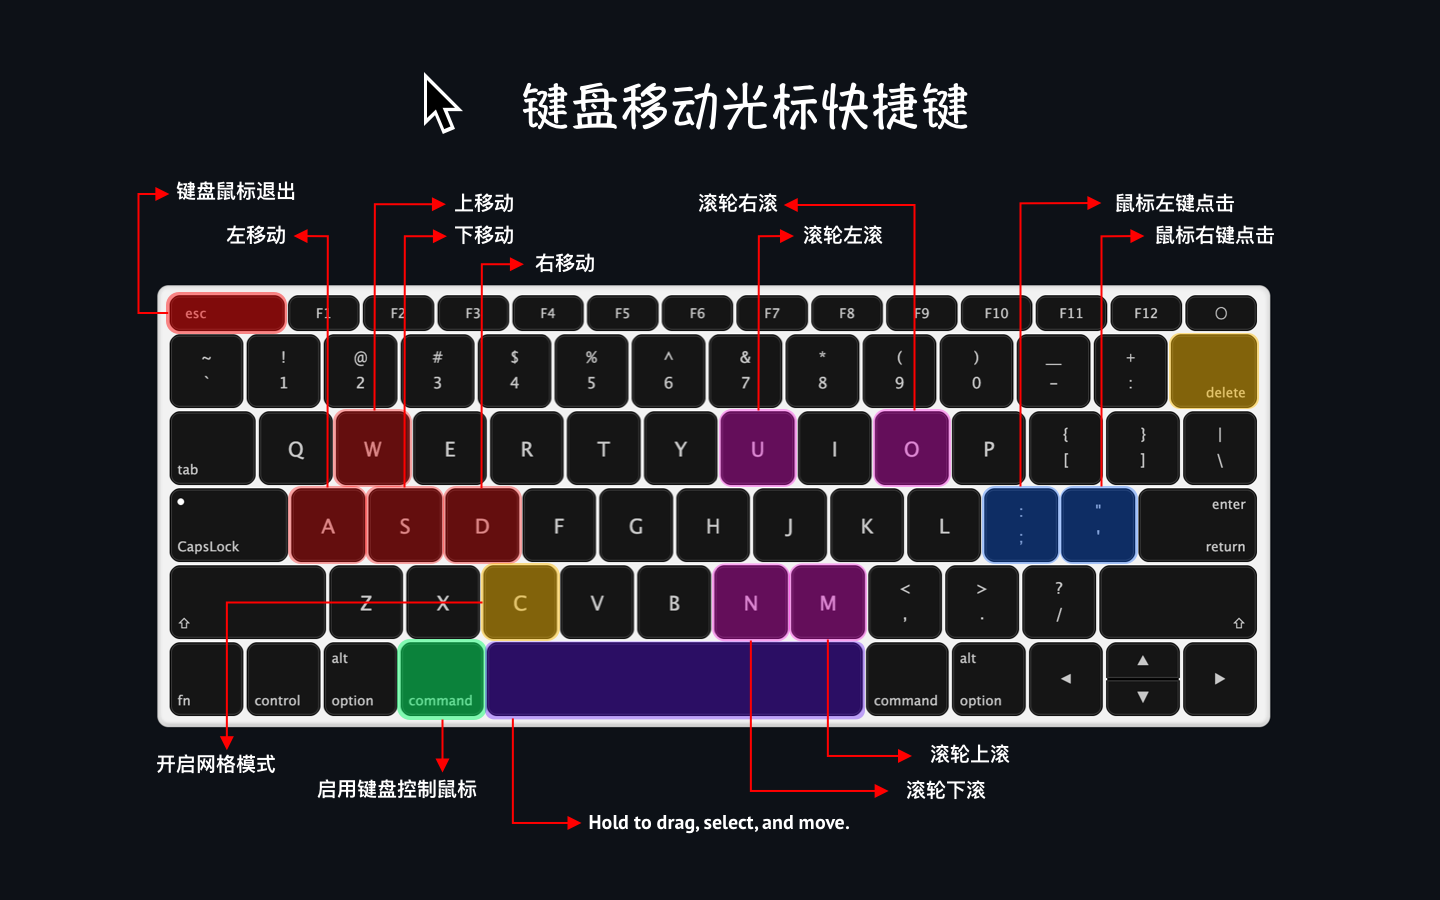
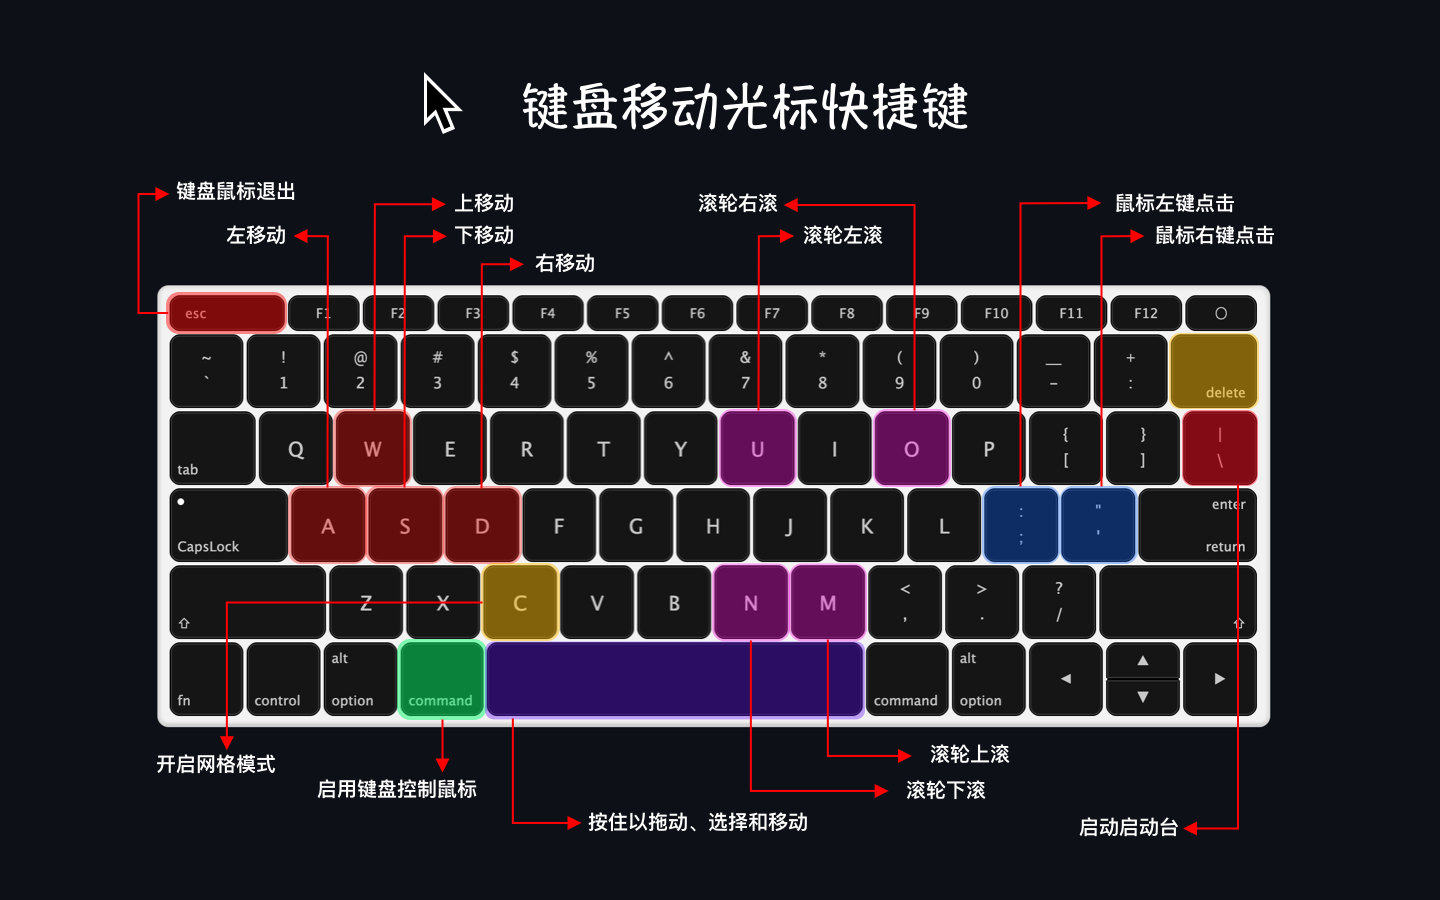
released v3.0.0

Changed region(s): [[0.8125, 0.4356, 0.875, 0.56], [0.4062, 0.9022, 0.5938, 0.9333], [0.75, 0.9022, 0.8438, 0.9333]]

diff --git a/README.md b/README.md
@@ -30,10 +30,16 @@ No need to touch the mouse — everything at your fingertips!
 Quickly move, click, and drag the mouse cursor using just your keyboard. Boost your efficiency and stay focused.
 
 ![Mousio 1](./assets/mousio3.gif)
+
 ![Mousio 1](./assets/mousio4.gif)
+
+![Mousio 1](./assets/screenshots-4.png)
+
+![Mousio 1](./assets/screenshots-5.png)
 
 ### Features
 
+- **Hotkey Launchpad**: Open apps in Launchpad using shortcuts
 - **Keyboard-driven cursor control**: Instantly move and position the mouse pointer using keyboard shortcuts  
 - **Grid navigation mode**: Navigate precisely using a resizable on-screen grid  
 - **Multi-display support**: Seamlessly move the cursor across multiple monitors  
@@ -61,6 +67,7 @@ Quickly move, click, and drag the mouse cursor using just your keyboard. Boost y
   - <kbd>E ←</kbd> <kbd>S ↓</kbd> <kbd>D ↑</kbd> <kbd>F →</kbd>
   - <kbd>▼ ↓</kbd> <kbd>▲ ↑</kbd> <kbd>▶ →</kbd> <kbd>◀ ←</kbd>
 - Enable Grid Navigation Mode: <kbd>C</kbd>
+- Enable Launchpad: Backslash <kbd>\</kbd>; Search shortcut: <kbd>Cmd ⌘+/</kbd>
 - Reset Search in Grid Navigation Mode: <kbd>Delete ⌫</kbd>
 - Hold <kbd>Space ␣</kbd> and use <kbd>A</kbd> <kbd>S</kbd> <kbd>W</kbd> <kbd>D</kbd> to move windows, select text, and move files
 - Left Mouse Click: <kbd>;:</kbd> or <kbd>↩ retern</kbd>

diff --git a/README.zh.md b/README.zh.md
@@ -31,8 +31,13 @@
 
 ![Mousio 1](./assets/mousio4.gif)
 
+![Mousio 1](./assets/screenshots-4.png)
+
+![Mousio 1](./assets/screenshots-5.png)
+
 ### 功能特点
 
+- **快捷键启动台**：使用快捷键在启动台中启用应用
 - **键盘驱动光标控制**：使用快捷键即时移动和定位鼠标指针  
 - **网格导航模式**：通过可调整大小的屏幕网格实现精准导航  
 - **多显示器支持**：无缝在多个显示器之间移动光标  
@@ -60,6 +65,7 @@
   - <kbd>E ←</kbd> <kbd>S ↓</kbd> <kbd>D ↑</kbd> <kbd>F →</kbd>
   - <kbd>▼ ↓</kbd> <kbd>▲ ↑</kbd> <kbd>▶ →</kbd> <kbd>◀ ←</kbd>
 - 启用网格导航模式：<kbd>C</kbd>
+- 启用启动台：<kbd>\</kbd>，搜索快捷键<kbd>Cmd ⌘+/</kbd>
 - 网格导航模式重置搜索：<kbd>删除 ⌫</kbd>
 - 按住 <kbd>空格 ␣</kbd>，配合 <kbd>A</kbd> <kbd>S</kbd> <kbd>W</kbd> <kbd>D</kbd> 移动窗口、选中文本和移动文件
 - 鼠标左键点击：<kbd>;:</kbd> 或 <kbd>↩ 回车</kbd>

diff --git a/CHANGELOG.md b/CHANGELOG.md
@@ -10,6 +10,19 @@ Changelog
 <img alt="Mousio AppStore" src="https://jaywcjlove.github.io/sb/download/macos.svg" height="51">
 </a>
 
+## [v3.0.0](https://github.com/jaywcjlove/mousio/releases/tag/v3.0.0)
+
+1. feat: Add German, French, Italian, Japanese, Korean, Russian and Traditional Chinese localization
+2. feat: Add icon for status bar menu
+3. feat: Show remove button on hover in app navigation list
+4. feat: Migrate accessibility checks to PermissionFlow
+5. feat: Add Launchpad
+6. perf: Optimize permission checks and multi-screen switching
+7. fix: Fix startup failure when MousioHint is not installed
+8. fix: Keep menu item icons visible on macOS 27
+9. fix: Scope Launchpad toggle within keyboard-mouse mode
+10. fix: Fix scaling issue for custom Dock icons
+
 ## [v2.3.0](https://github.com/jaywcjlove/mousio/releases/tag/v2.3.0)
 
 1. perf: optimize settings options.

diff --git a/CHANGELOG.zh.md b/CHANGELOG.zh.md
@@ -10,6 +10,19 @@
 <img alt="Mousio AppStore" src="https://jaywcjlove.github.io/sb/download/macos.svg" height="51">
 </a>
 
+## [v3.0.0](https://github.com/jaywcjlove/mousio/releases/tag/v3.0.0)
+
+1. feat: 新增德语、法语、意大利语、日语、韩语、俄语、繁体中文语言支持
+2. feat: 状态栏菜单添加图标
+3. feat: 应用导航列表悬浮显示移除按钮
+4. feat: 将权限校验逻辑迁移至 PermissionFlow
+5. feat: 新增启动台功能
+6. perf: 优化权限检测与多显示器切换逻辑
+7. fix: 修复未安装 MousioHint 时程序启动失败问题
+8. fix: 保证 macOS 27 下菜单项图标正常显示
+9. fix: 限定键鼠模式下启动台快捷键触发范围
+10. fix: 修复自定义程序坞图标缩放异常问题
+
 ## [v2.3.0](https://github.com/jaywcjlove/mousio/releases/tag/v2.3.0)
 
 1. perf: 优化设置选项。
